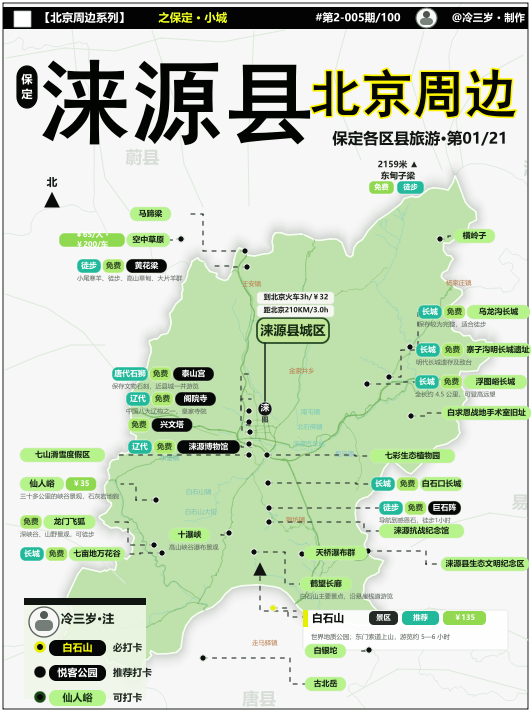
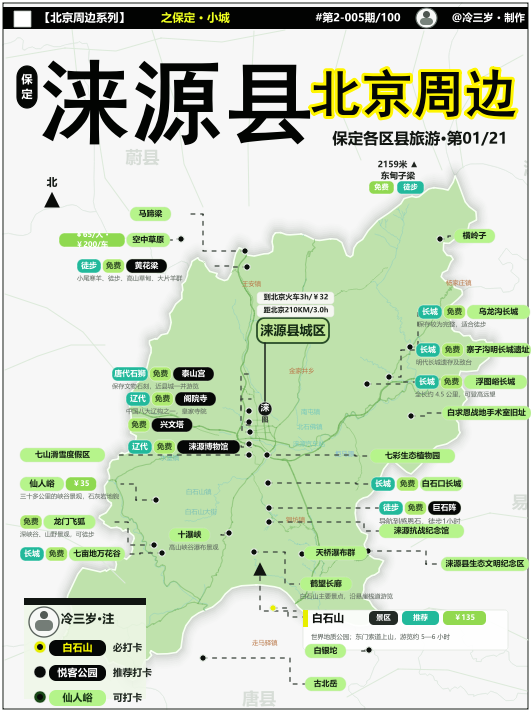
微调涞源标题与景点说明

Changed region(s): [[0.5725, 0.0927, 0.9944, 0.1854], [0.7232, 0.7107, 0.8738, 0.7416], [0.3013, 0.0, 0.452, 0.0309]]

diff --git a/制图工具/scripts/laiyuan_tourism/build_map.py b/制图工具/scripts/laiyuan_tourism/build_map.py
@@ -698,7 +698,7 @@ def add_header(layout: QgsPrintLayout) -> None:
     bar.setId("刊头_黑条")
     add_shape(layout, mm_x(14), mm_y(11), mm_x(17), mm_y(16), "#FFFFFF", "#B8C0BA", 0.16)
     add_label(layout, "【北京周边系列】", mm_x(39), mm_y(7), mm_x(119), mm_y(22), 6.8, color="#FFFFFF", bold=True)
-    add_label(layout, " 之保定 · 小城", mm_x(155), mm_y(7), mm_x(101), mm_y(22), 6.8, color="#EFFF20", bold=True)
+    add_label(layout, "之保定 · 小城", mm_x(161), mm_y(7), mm_x(95), mm_y(22), 6.8, color="#EFFF20", bold=True)
     add_label(layout, "#第2-005期/100", mm_x(310), mm_y(7), mm_x(96), mm_y(22), 6.5, color="#FFFFFF", bold=True, align=Qt.AlignCenter)
     add_ellipse(layout, mm_x(416), mm_y(8), mm_x(21), mm_y(20), "#F7F8F7", "#657069", 0.24)
     add_ellipse(layout, mm_x(423), mm_y(11), mm_x(7), mm_y(7), "#4D5550")
@@ -722,7 +722,7 @@ def add_title(layout: QgsPrintLayout) -> None:
         "#050705",
         bold=True,
         buffer_color="#FFF500",
-        buffer_size=0.68,
+        buffer_size=1.25,
     )
     add_label(layout, "保定各区县旅游·第01/21", mm_x(323), mm_y(123), mm_x(194), mm_y(31), 9.2, FONT_SANS, "#111511", bold=True, align=Qt.AlignCenter)
     add_label(layout, "北", mm_x(42), mm_y(174), mm_x(20), mm_y(17), 6.4, FONT_SANS, "#151A16", bold=True, align=Qt.AlignCenter)
@@ -838,7 +838,11 @@ def add_poi_callout(
         add_shape(layout, cursor, card_y, name_w, chip_h, name_fill, "#D6E8C7", 0.10, radius=1.4)
         add_label(layout, poi.name, cursor + mm_x(2), card_y, max(mm_x(18), name_w - mm_x(4)), chip_h, 4.7, FONT_SANS, name_color, bold=True, align=Qt.AlignCenter)
     if poi.note:
-        add_label(layout, poi.note, card_x, card_y + chip_h, card_w, mm_y(12), 3.7, FONT_SANS, "#59635A", False)
+        note_y = card_y + mm_y(16.0) if poi.name == "巨石阵" else card_y + chip_h
+        note_height = mm_y(12.0) if poi.name != "巨石阵" else mm_y(10.0)
+        note_size = 3.7 if poi.name != "巨石阵" else 4.2
+        note_color = "#4E5750" if poi.name == "巨石阵" else "#59635A"
+        add_label(layout, poi.note, card_x, note_y, card_w, note_height, note_size, FONT_SANS, note_color, False)
 
 
 def add_legend(layout: QgsPrintLayout) -> None:
